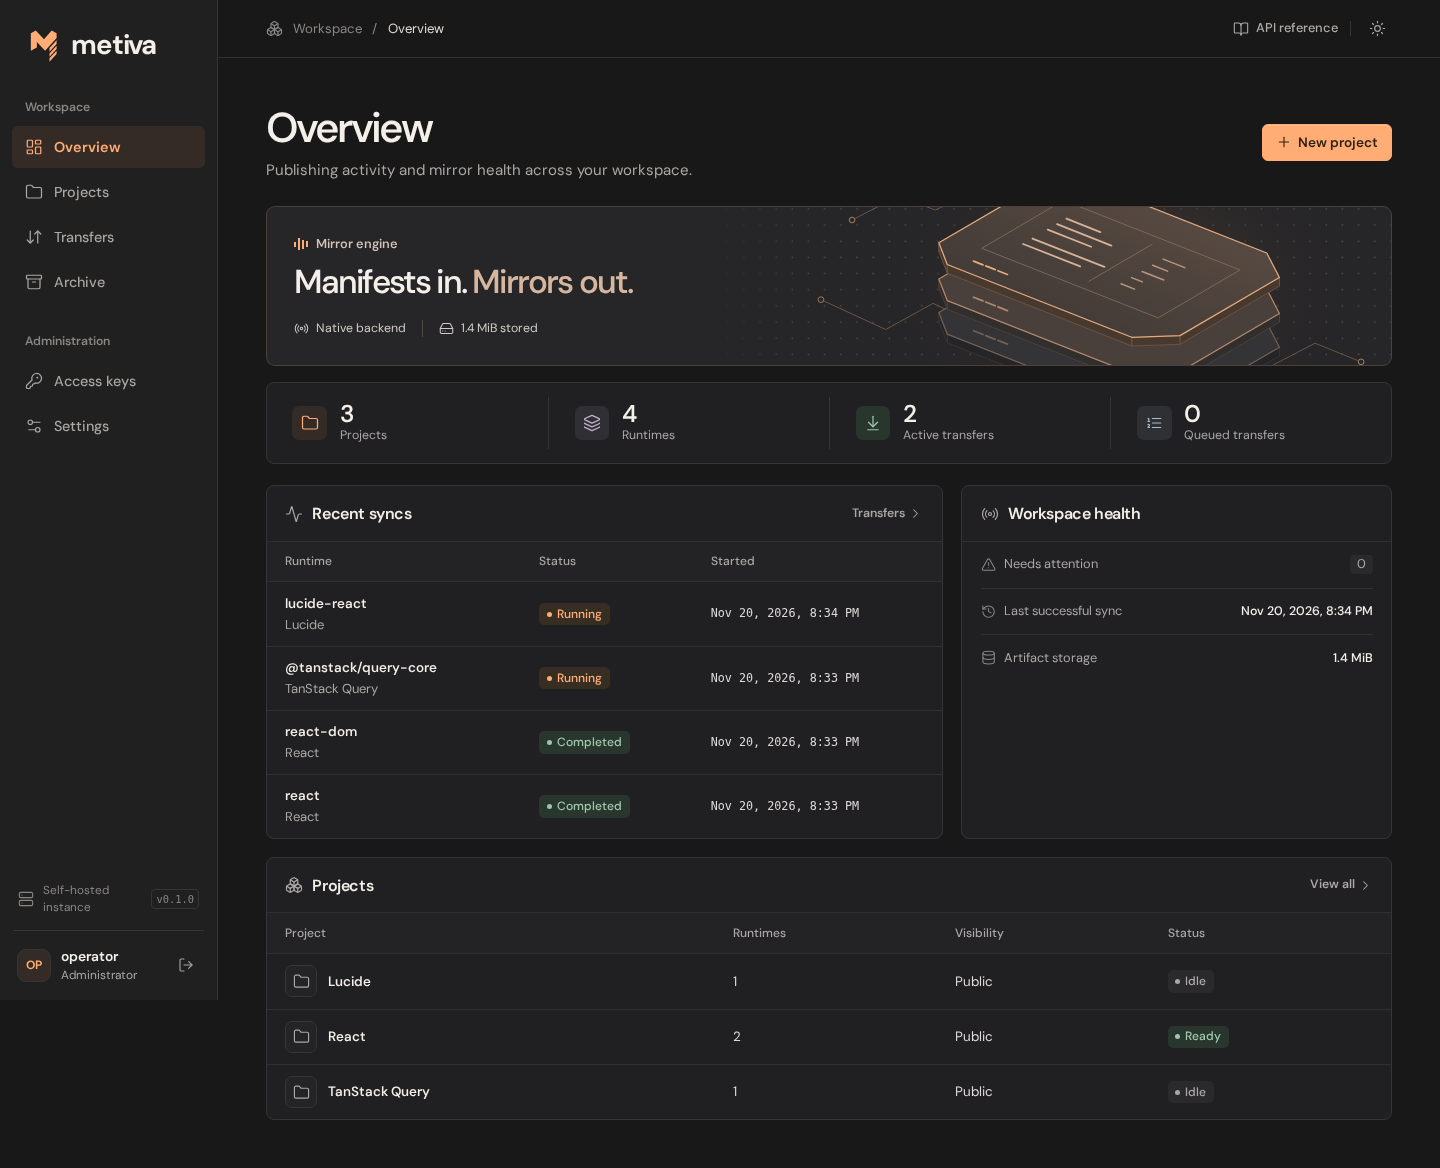
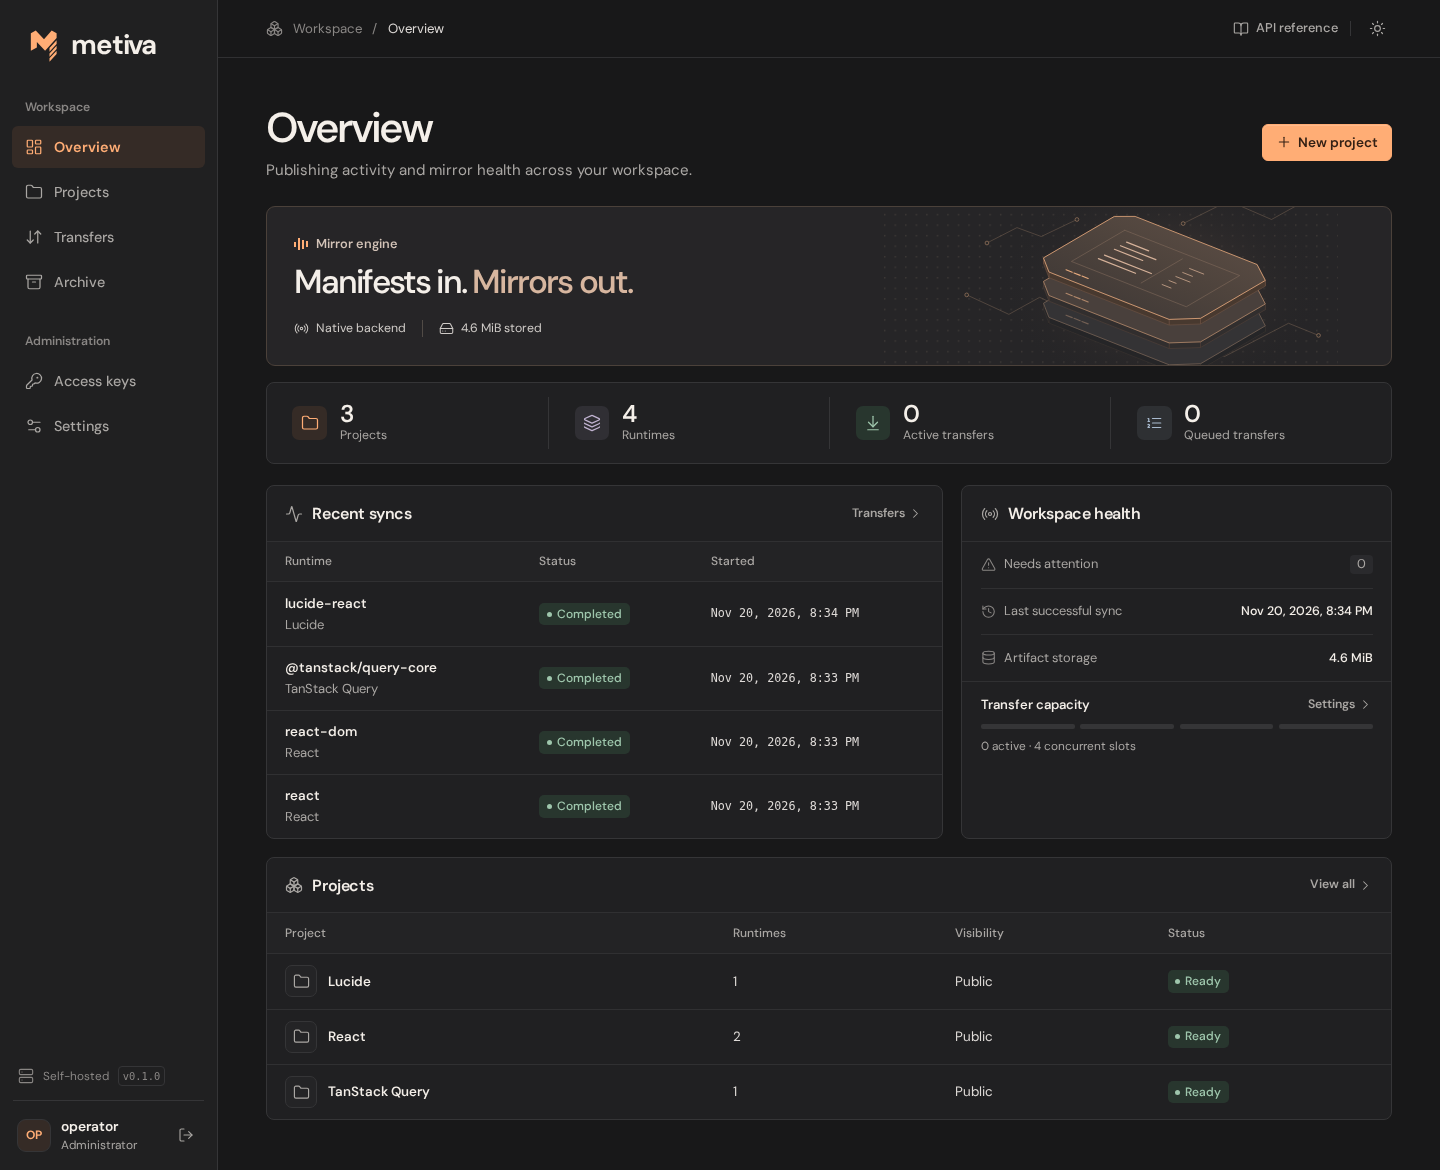
feat(dashboard): refine operational status and brand assets

diff --git a/apps/web/src/Overview.tsx b/apps/web/src/Overview.tsx
@@ -20,6 +20,7 @@ import {
   type Activity,
   type Overview as Summary,
   type Project,
+  type Settings,
 } from "./model";
 import { Data, Empty, Head, More, Panel, Status } from "./ui";
 import { ProjectDialog } from "./Projects";
@@ -63,6 +64,7 @@ export function ActivityRows({ rows }: { rows: Activity[] }) {
 export function Overview() {
   const overview = useResource<Summary>("overview", { refetchInterval: 10000 });
   const projects = useResource<Project[]>("projects");
+  const settings = useResource<Settings>("settings");
   const [newProject, setNewProject] = useState(false);
   return (
     <>
@@ -171,6 +173,29 @@ export function Overview() {
                   </span>
                   <strong>{bytes(o.storage_bytes)}</strong>
                 </div>
+                {settings.data && (
+                  <div className="capacity">
+                    <div className="inline space">
+                      <strong>Transfer capacity</strong>
+                      <More href="#settings" label="Settings" />
+                    </div>
+                    <div className="slot-list" aria-hidden="true">
+                      {Array.from(
+                        { length: settings.data.concurrency },
+                        (_, index) => (
+                          <i
+                            key={index}
+                            className={index < o.active ? "used" : ""}
+                          />
+                        ),
+                      )}
+                    </div>
+                    <small>
+                      {o.active} active · {settings.data.concurrency} concurrent
+                      slots
+                    </small>
+                  </div>
+                )}
               </Panel>
             </div>
             <Panel

diff --git a/apps/web/src/styles.css b/apps/web/src/styles.css
@@ -456,10 +456,10 @@ nav a.selected {
     url("/manifest-plates.svg");
   background-size:
     100% 100%,
-    cover;
+    auto 118%;
   background-position:
     center,
-    center right;
+    78% center;
   background-repeat: no-repeat;
 }
 .hero-text {
@@ -1780,4 +1780,29 @@ summary span {
   color: var(--muted);
   padding: 0.2rem 0;
   font-size: 0.75rem;
+}
+.capacity {
+  padding: 0.86rem 1.16rem;
+  border-top: 1px solid var(--line-soft);
+}
+.capacity strong {
+  font-size: 0.82rem;
+  font-weight: 550;
+}
+.capacity small {
+  font-size: 0.74rem;
+}
+.slot-list {
+  display: flex;
+  gap: 0.35rem;
+  margin: 0.58rem 0 0.25rem;
+}
+.slot-list i {
+  flex: 1;
+  height: 5px;
+  border-radius: 2px;
+  background: var(--line);
+}
+.slot-list i.used {
+  background: var(--green);
 }

diff --git a/apps/web/src/Settings.tsx b/apps/web/src/Settings.tsx
@@ -1,11 +1,5 @@
 import { useState } from "react";
-import {
-  Bolt,
-  KeyRound,
-  Server,
-  ShieldCheck,
-  SlidersHorizontal,
-} from "lucide-react";
+import { KeyRound, Server, ShieldCheck, SlidersHorizontal } from "lucide-react";
 import { useMutation } from "@tanstack/react-query";
 import { api, signedOut, useAction, useResource } from "./api";
 import { bytes, type Session, type Settings as Configuration } from "./model";

diff --git a/apps/web/src/main.tsx b/apps/web/src/main.tsx
@@ -14,7 +14,6 @@ import {
   LogOut,
   Menu,
   Moon,
-  PanelLeft,
   Server,
   Settings2,
   Sun,
@@ -99,7 +98,7 @@ function Side({
       <div className="side-bottom">
         <div className="instance-version">
           <Server size={16} />
-          <span>Self-hosted instance</span>
+          <span>Self-hosted</span>
           {version && <code>v{version}</code>}
         </div>
         <div className="side-account">
